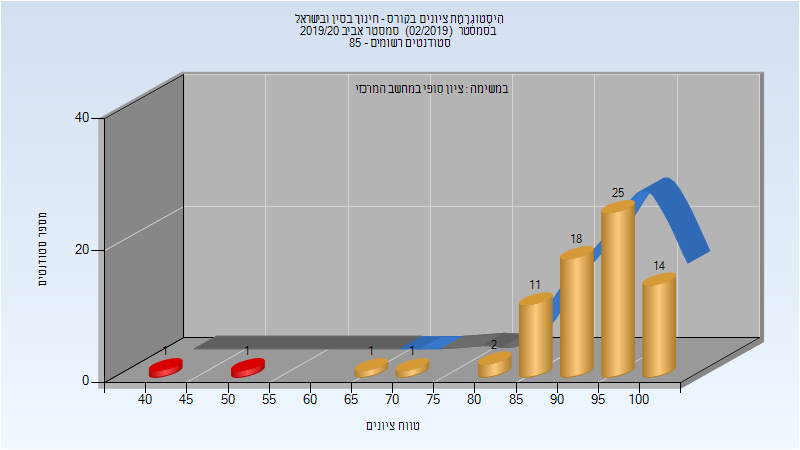
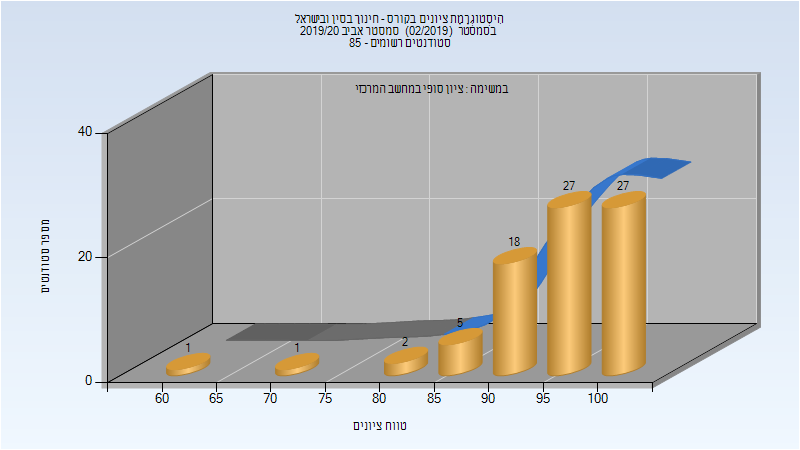
Deploy michael-maltsev/technion-histograms to github.com/michael-maltsev/technion-histograms.git:gh-pages

diff --git a/324284/index.html b/324284/index.html
@@ -244,6 +244,32 @@
 </tr>
 </tbody>
 </table>
+<h3>סופי מועד ב'</h3>
+<p><img src="201902/Final_B.png" alt="201902 Final_B" /></p>
+<table>
+<thead>
+<tr>
+<th>סטודנטים</th>
+<th>עברו/נכשלו</th>
+<th>אחוז עוברים</th>
+<th>ציון מינימלי</th>
+<th>ציון מקסימלי</th>
+<th>ממוצע</th>
+<th>חציון</th>
+</tr>
+</thead>
+<tbody>
+<tr>
+<td>21</td>
+<td>21/0</td>
+<td>100</td>
+<td>62</td>
+<td>100</td>
+<td>94.333</td>
+<td>100</td>
+</tr>
+</tbody>
+</table>
 <h3>סופי</h3>
 <p><img src="201902/Finals.png" alt="201902 Finals" /></p>
 <table>
@@ -260,13 +286,13 @@
 </thead>
 <tbody>
 <tr>
-<td>74</td>
-<td>72/2</td>
-<td>97</td>
-<td>43</td>
+<td>81</td>
+<td>81/0</td>
 <td>100</td>
-<td>92.324</td>
-<td>95</td>
+<td>62</td>
+<td>100</td>
+<td>95.025</td>
+<td>96</td>
 </tr>
 </tbody>
 </table>

diff --git a/134019/index.html b/134019/index.html
@@ -1482,6 +1482,32 @@
 </tr>
 </tbody>
 </table>
+<h3>סופי מועד ב'</h3>
+<p><img src="201902/Final_B.png" alt="201902 Final_B" /></p>
+<table>
+<thead>
+<tr>
+<th>סטודנטים</th>
+<th>עברו/נכשלו</th>
+<th>אחוז עוברים</th>
+<th>ציון מינימלי</th>
+<th>ציון מקסימלי</th>
+<th>ממוצע</th>
+<th>חציון</th>
+</tr>
+</thead>
+<tbody>
+<tr>
+<td>33</td>
+<td>15/18</td>
+<td>45</td>
+<td>35</td>
+<td>101.672</td>
+<td>58.402</td>
+<td>53</td>
+</tr>
+</tbody>
+</table>
 <h3>סופי</h3>
 <p><img src="201902/Finals.png" alt="201902 Finals" /></p>
 <table>

diff --git a/324284/README.md b/324284/README.md
@@ -70,11 +70,19 @@
 | ---- | ---- | ---- | ---- | ---- | ---- | ---- |
 | 74 | 72/2 | 97 | 43.28 | 100 | 92.351 | 95.44 |
 
+### סופי מועד ב'
+
+![201902 Final_B](201902/Final_B.png)
+
+| סטודנטים | עברו/נכשלו | אחוז עוברים | ציון מינימלי | ציון מקסימלי | ממוצע | חציון |
+| ---- | ---- | ---- | ---- | ---- | ---- | ---- |
+| 21 | 21/0 | 100 | 62 | 100 | 94.333 | 100 |
+
 ### סופי
 
 ![201902 Finals](201902/Finals.png)
 
 | סטודנטים | עברו/נכשלו | אחוז עוברים | ציון מינימלי | ציון מקסימלי | ממוצע | חציון |
 | ---- | ---- | ---- | ---- | ---- | ---- | ---- |
-| 74 | 72/2 | 97 | 43 | 100 | 92.324 | 95 |
+| 81 | 81/0 | 100 | 62 | 100 | 95.025 | 96 |
 

diff --git a/134019/README.md b/134019/README.md
@@ -466,6 +466,14 @@
 | ---- | ---- | ---- | ---- | ---- | ---- | ---- |
 | 73 | 55/18 | 75 | 13.65 | 97.86 | 71.575 | 78.408 |
 
+### סופי מועד ב'
+
+![201902 Final_B](201902/Final_B.png)
+
+| סטודנטים | עברו/נכשלו | אחוז עוברים | ציון מינימלי | ציון מקסימלי | ממוצע | חציון |
+| ---- | ---- | ---- | ---- | ---- | ---- | ---- |
+| 33 | 15/18 | 45 | 35 | 101.672 | 58.402 | 53 |
+
 ### סופי
 
 ![201902 Finals](201902/Finals.png)
